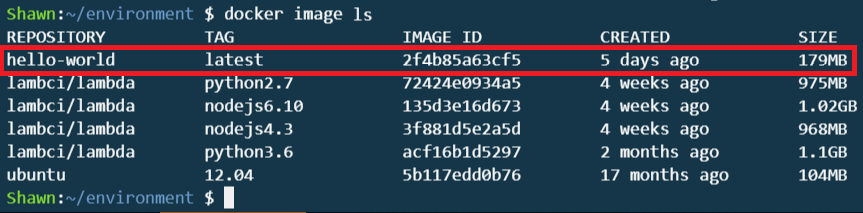
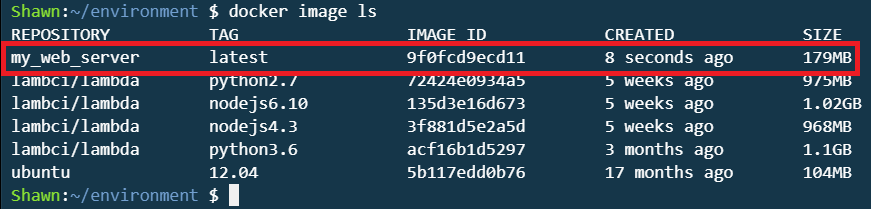
Update login.png

diff --git a/README.md b/README.md
@@ -1,13 +1,13 @@
 
 # Get Started with Docker & Amazon ECR
 
-In this lab, We will create a Docker image which provides a simple web application, push the image to Amazon Elastic Container Registry ([Amazon ECR](https://aws.amazon.com/tw/ecr/)) which is a fully-managed Docker container registry and run a container on Amazon Elastic Container Service([Amazon ECS](https://aws.amazon.com/tw/ecs)).  
+In this lab, we will create a Docker image which provides web service, push the image to Amazon Elastic Container Registry ([Amazon ECR](https://aws.amazon.com/tw/ecr/)) which is a fully-managed Docker container registry and run a container on Amazon Elastic Container Service([Amazon ECS](https://aws.amazon.com/tw/ecs)).  
 
 ## Prerequisite
 
 >Make sure the region is US East (N. Virginia), which its short name is us-east-1.
 
-## Setup AWS Cloud9 environment
+## Set Up AWS Cloud9 Environment
 In this lab, we use AWS Cloud9 which is a cloud IDE intergrating programming languages and useful tools. A cloud9 environment is based on an EC2 instance. We can  develope applications with a browser anywhere.
 
 * Sign in to the AWS Management Console, and then open [AWS Cloud9 console](https://console.aws.amazon.com/cloud9/).
@@ -20,7 +20,7 @@ In this lab, we use AWS Cloud9 which is a cloud IDE intergrating programming lan
 
 * Leave everything as default and click **Next Step**.
 
-* Click **Create environment**. (It would  take 30~60 seconds to create your environment.)
+* Click **Create environment**. It might take 30~60 seconds to create your environment.
 
 * Because we want to accomplish access control by attaching a role ourself, we need to **turn off** the Cloud9 temporarily provided IAM credentials first.
 ![disableCredential.png](images/disableCredential.png)
@@ -36,7 +36,7 @@ In this lab, we use AWS Cloud9 which is a cloud IDE intergrating programming lan
 
 * Search and select **AmazonEC2ContainerRegistryFullAccess** then Click **Next: Review**.
 
-* For **Role Name** field, type **AllowEC2AccessECR** and click **Create Role**.
+* In **Role Name** field, type **AllowEC2AccessECR** and click **Create Role**.
 
 * Back to Attach/Replace IAM Role panel, click **Refresh** button, **select the role we just create** and click  **Apply**.
 ![selectRole.png](images/selectRole.png)
@@ -52,17 +52,17 @@ In this lab, we use AWS Cloud9 which is a cloud IDE intergrating programming lan
 	
 	  docker version
 
-  The output should be like as following:
+  The output is supposed to be like as following:
   
   ![dockerVersion.png](images/dockerVersion.png)
 
 
-* Use *vi* text editor to create and edit a file called **_Dockerfile_**.  A *Dockerfile* is a manifest that describes the base image to use for the Docker image and what we want installed and running on it.
+* Use **_vi_** text editor to create and edit a file called **_Dockerfile_**.  A *Dockerfile* is a manifest that describes the base image to use for the Docker image and what we want installed and running on it.
 
 	  vi Dockerfile
     
 
-* Press **`i`** key to enter insert mode and add the following content:
+* Press **`i`** key to enter insert mode and add the following script. The script will be executed while building Docker image and Apache web server will be set up. 
 
       FROM ubuntu:12.04
 
@@ -84,7 +84,6 @@ In this lab, we use AWS Cloud9 which is a cloud IDE intergrating programming lan
 
       CMD ["/usr/sbin/apache2", "-D",  "FOREGROUND"]
 
-
 * Press **`ESC`** key to return to command mode.
 
 * Type **`:wq!`** to save and exit.
@@ -92,11 +91,11 @@ In this lab, we use AWS Cloud9 which is a cloud IDE intergrating programming lan
 	  :wq!
 
 * Build the Docker image from *Dockerfile*.
-  >Note: the “hello-world” is the docker image name.
+  >Note: "my_web_server" is the docker image name and "./" means the Dockerfile can be found in current directory.
 
-	  docker build -t hello-world .
+	  docker build -t my_web_server ./
     
-* List docker images to verify whether the image was created correctly. We should be able to see there is a image called **_hello-world_**.
+* List docker images to verify whether the image was created correctly. We should be able to see there is an image called **_my_web_server_**.
 
 	  docker image ls
 
@@ -104,14 +103,17 @@ In this lab, we use AWS Cloud9 which is a cloud IDE intergrating programming lan
  
 * Run the newly built image. The **`–p 80:80`** option maps the exposed port 80 on the container to port 80 on the host system.
 
-	  docker run -p 80:80 hello-world
+	  docker run -p 80:80 my_web_server
 
-  We should be able to see the following message with a IP address which is the web server's IP address.
+  We should be able to see the following message with an **IP address** which is the web server's IP address.
   >Note: we can ignore the ”Could not reliably determine the server's fully qualified domain name” message from Apache web server.
   
   ![run.png](images/run.png)
 
-* Use **_Curl_** to fetch the index page from the **IP address** displayed in previous one step. We should be able to see a **_Hello World!_** message displayed on the screen.
+* Open another terminal window by pressing **`alt + t`** key or clicking the **`+`** button and **`New Terminal`**.
+  ![newTerminal.png](images/newTerminal.png)
+
+* Use **_Curl_** to fetch the index page from the **IP address** displayed in previous one step. We should be able to see an **_Hello World!_** message displayed on the screen.
 
       curl [Server IP]
 
@@ -123,29 +125,46 @@ In this lab, we use AWS Cloud9 which is a cloud IDE intergrating programming lan
 
 * Confirm that we are in **N.Virginia** region.
 
-* If a welcome page is displayed, click **Get started**, otherwise, click **Create repository**.
+* Click **Repositories** on left panel.
 
-* Type Repository name: **docker-demo**
+* Click **Create Repository**.
+
+* Type Repository name: **my_web_server**
 
 * Click **Next step**.
 
-* We will see **Successfully created repository** message on the page.
+* Click **Done** Once the repository has been created.
+
+* The web page will automatically jump to the page of the repository. **Copy the Repository URI and paste to a text file** because we will use the URI later.
+
+  ![URI.png](images/URI.png)
 
 
-## Tag Image and Push it to Amazon ECR
 
-* After creating an ECR repository, tag the image so we can push the image to our repository.
+## Tag Image and Push to Amazon ECR
+* Back to Cloud9 environment.
 
-	  docker tag hello-world:latest 2421964xxxxx.dkr.ecr.us-east-1.amazonaws.com/docker-demo:latest
+* After creating an ECR repository, type **`docker` `tag my_web_server:latest` `[Repository URI]:latest`** to tag the image so that we can push it to our repository later.
 
-	>Note: “hello-world” is the name of docker image, “2421964xxxxx” is the AWS account ID, "us-east-1" is the region and “docker-demo” is the repository we created in previous step.
+	  docker tag my_web_server:latest 2421xxxxxxxx.dkr.ecr.us-east-1.amazonaws.com/my_web_server:latest
 
+	>Note: the first “my_web_server” is the name of docker image, "latest" is the tag which represents the image is the latest version, “2421xxxxxxxx” is the AWS account ID, "us-east-1" is the region and the second “my_web_server” is the repository we created in previous step.
 
-	Run the following command to push this image to our newly created AWS repository:
+* Before pushing the image to our remote repository on Amazon ECR, we need to login to Amazon ECR first. Type `aws ecr get-login --no-include-email --region us-east-1` to get the login command from AWS.
+
+      aws ecr get-login --no-include-email --region us-east-1
+
+* **Copy** the output command.
+
+  ![login.png](images/login.png)
+
+* **Paste** the command in terminal and **execute**, we should be able to see **_Login Succeeded_** message.
+
+* After login, type **`docker` `push` `[Repository URI]:latest`** to push this image to our newly created repository on Amazon ECR:
 		
-      docker push 2421964xxxxx.dkr.ecr.us-east-1.amazonaws.com/docker-demo:latest
+      docker push 2421xxxxxxxx.dkr.ecr.us-east-1.amazonaws.com/my_web_server:latest
     
-	>Note: “docker-demo” is the repository we created in previous step.
+	>Note: “my_web_server” is the repository we created in previous step.
 
 	![push.png](images/push.png)
 
@@ -153,10 +172,10 @@ In this lab, we use AWS Cloud9 which is a cloud IDE intergrating programming lan
 ## Determine Using Amazon Fargates or EC2 instance
 In Amazon ECS, we can easily launch containers without management of instances by using Amazon Fargate. We can also launch containers on Amazon EC2 instances and manage instances ourself.  
 
-The rest of this tutorial is divided into two parts. For using Amazon Fargate, please step to **Using Amazon Fargate** part. For using Amazon EC2, please step to **Using Amazon EC2 Instance** part.
+The rest of this tutorial is divided into two parts. For using Amazon Fargate, please step to **Use Amazon Fargate** part. For using Amazon EC2, please step to **Use Amazon EC2 Instance** part.
 
 
-## Using Amazon Fargate
+## Use Amazon Fargate
 
 ### Create Cluster
 * In the **AWS Management Console**, on the **service** menu, click **Elastic Container Service**.
@@ -167,7 +186,7 @@ The rest of this tutorial is divided into two parts. For using Amazon Fargate, p
 
 * Click **Networking only** and Click **Next step**.
 
-* Type a **Cluster Name**.
+* In **Cluster Name**, Type **FargateCluster**.
 
 * In **Networking** part, it's optional to create a new VPC for the cluster. In this tutorial, we create a new VPC here hence we **click the checkbox of create VPC**.
 
@@ -179,11 +198,89 @@ The rest of this tutorial is divided into two parts. For using Amazon Fargate, p
 
 * Click **create** and wait for the creation.
 
-### Create Task Definition for ECS
+### Create Task Definition for Amazon ECS
+
+* Back to [Amazon ECS console](https://console.aws.amazon.com/ecs/home), click **Task Definitions** on left panel.
+
+* Click **Create new Task Definition**.
+
+* Select **Fargate** type and click **Next Step**.
+
+* In **Task Definition Name**, type **runWebServerWithFargate**.
+
+* Step to Task Size part, In **Task Memory (GB)**, select **0.5GB**.
+
+* In **Task CPU (vCPU)**, select **0.25 vCPU**.
+
+* In **Container Definetions** part,  click **Add container** button to add a container. In Amazon ECS, we can define several containers for a task. In this tutorial, we only define one container which will serve as a web server. 
+
+* In **Container name**, type **my_web_server**.
+
+* In **Image**, type **`[Repository URI]:latest`**.
+
+      2421xxxxxxxx.dkr.ecr.us-east-1.amazonaws.com/my_web_server:latest
+
+* In **Memory Limits (MB)**, Select **Soft limit** and type **128**.
+
+  ![container.png](images/container.png)
+
+* In **Port mappings**, type **80** and select **tcp**.
+
+* Click **Add**.
+
+* Click **Create** and wait for the creation of Task Definition.
+
+### Create Service on Amazon ECS
+After creating task definition, we can start a task standalone or start several tasks simultaneously by creating a service. In this tutorial, we will create a service. 
+
+* Back to [Amazon ECS console](https://console.aws.amazon.com/ecs/home), click **Clusters** on left panel.
+
+* Click **FargateCluster**.
+
+* In **Services** tab, click **Create**.
+
+* In **Launch type**, select **FARGATE**.
+
+* In **Task Definition**, select **runWebServerUsingFargate**.
+
+* In **Service name**, type **myWebServerUsingFargate**.
+
+* In **Number of tasks**, type **1**. If you want to create a service which starts several tasks simultaneously, you can type the number of tasks you need here. In this tutorial, we only need a task hence we type 1 here.
+
+* Click **Next step**.
+
+* In **Cluster VPC**, select **the VPC with CIDR 20.0.0.0/16**.
+
+* In **Subnet**, add **both subnet**.
+
+* In **Auto-assign public IP**, select **ENABLE**.
+
+* Leave the rest of setting as default and click **Next step**.
+
+* Click **Next step**.
+
+* Click **Create Service** and wait for creation.
+
+* Click **View Service**.
+
+* In Service page, click **Tasks** tab below and we can see there is a tasks.
+
+* Click **the task** in task list, refresh the page until the **Last status** is **RUNNING** rather than **PENDING**.
+
+* Copy the **public IP**.
+
+  ![IP.png](images/IP.png)
+
+* Open a new browser tab, paste the IP address and press Enter. In the browser, we should be able to see an **_Hello World!_** message.
+
+  ![browser.png](images/browser.png)
+	
 
 
 
-## Using Amazon EC2 Instance
+
+
+## Use Amazon EC2 Instance
 
 ### Create Cluster
 * In the **AWS Management Console**, on the **service** menu, click **Elastic Container Service**.
@@ -194,10 +291,11 @@ The rest of this tutorial is divided into two parts. For using Amazon Fargate, p
 
 * Click **EC2 Linux + Networking** and click **Next step**.
 
-* Type a **Cluster Name**.
+* In **Cluster Name**, type **EC2Cluster**.
 
-* In Instance Configuration part, for **EC2 instance type**, select **t2.micro**.
-* For **Number of instances**, type **1**.
+* In Instance Configuration part, in **EC2 instance type**, select **t2.micro**.
+
+* In **Number of instances**, type **1**.
 
 * In Networking part, select **Create a new VPC**.
 
@@ -209,49 +307,84 @@ The rest of this tutorial is divided into two parts. For using Amazon Fargate, p
 
 * Leave other settings as default, click **create** and wait for the creation.
 
+### Create a Task Definition for Amazon ECS
 
-
-
-
-
-
-
-
-
-## Create a Task Definition for Amazon ECS
-
-* Back to AWS ECS console.
-
-* Click **Task Definitions** on left panel.
+* Back to [Amazon ECS console](https://console.aws.amazon.com/ecs/home), click **Task Definitions** on left panel.
 
 * Click **Create new Task Definition**.
-###
 
+* Select **EC2** type and click **Next Step**.
 
-* Leave all the task definition setting as default, click **Next Step**.
+* In **Task Definition Name**, type **runWebServerWithEC2**.
 
-* Leave all the configure service and network access as default, click **Next Step**.
+* In **Network Mode**, select **\<default\>**.
 
-* Confirm and leave the configure cluster and security group as default, click **Review & launch**.
+* Step to Task Size part, In **Task Memory (MiB)**, type **512**.
 
-* Click **Launch instance & run service**.
+* In **Task CPU (unit)**, type **0.25 vCPU**.
 
-* Wait EC2 instance status – 0 of 13 complete.
+* In **Container Definetions** part,  click **Add container** button to add a container. In Amazon ECS, we can define several containers for a task. In this tutorial, we only define one container which will serve as a web server. 
 
+* In **Container name**, type **my_web_server**.
 
-## Exam the Resource
+* In **Image**, type **`[Repository URI]:latest`**.
 
-* In the **AWS Management Console**, on the **service** menu, click **EC2**.
+      2421xxxxxxxx.dkr.ecr.us-east-1.amazonaws.com/my_web_server:latest
 
-* Click Instance, select **ECS Instance-EC2ContainerService-default** instance.
+* In **Memory Limits (MB)**, Select **Soft limit** and type **128**.
 
-* On the **Description** tab in the lower pane, copy the **IPv4 Public IP** to the clipboard.
+  ![container.png](images/container.png)
 
-* Open a new browser tab, paste the IP address from the clipboard and hit Enter. The Container should appear.
+* In **Port mappings**, type **80** for Host port, type **80** for Container port and select **tcp**.
 
-* In the browser, we should be able to see:
+* Click **Add**.
 
-	**_Hello World!_**
+* Click **Create** and wait for the creation of Task Definition.
+
+### Create Service on Amazon ECS
+After creating task definition, we can start a task standalone or start several tasks simultaneously by creating a service. In this tutorial, we will create a service. 
+
+* Back to [Amazon ECS console](https://console.aws.amazon.com/ecs/home), click **Clusters** on left panel.
+
+* Click **EC2Cluster**.
+
+* In **Services** tab, click **Create**.
+
+* In **Launch type**, select **EC2**.
+
+* In **Task Definition**, select **runWebServerWithEC2**.
+
+* In **Service name**, type **myWebServerUsingEC2**.
+
+* In **Service type**, select **REPLICA**.
+
+* In **Number of tasks**, type **1**. If you want to create a service which starts several tasks simultaneously, you can type the number of tasks you need here. In this tutorial, we only need a task hence we type 1 here.
+
+* Click **Next step**.
+
+* Click **Next step**.
+
+* Click **Next step**.
+
+* Click **Create Service** and wait for the creation.
+
+* Click **View Service**.
+
+* In Service page, click **Tasks** tab below and we can see there is a tasks.
+
+* Click **the task** in task list, refresh the page until the **Last status** is **RUNNING** rather than **PENDING**.
+
+* In **Containers** part, click **the triangle arrow** below to expand the table.
+
+  ![expand.png](images/expand.png)
+
+* Copy the **External Link** in **Network bindings** part.
+
+  ![link.png](images/link.png)
+
+* Open a new browser tab, paste the external link and press Enter. In the browser, we should be able to see an **_Hello World!_** message.
+
+  ![browser2.png](images/browser2.png)
 
 
 
